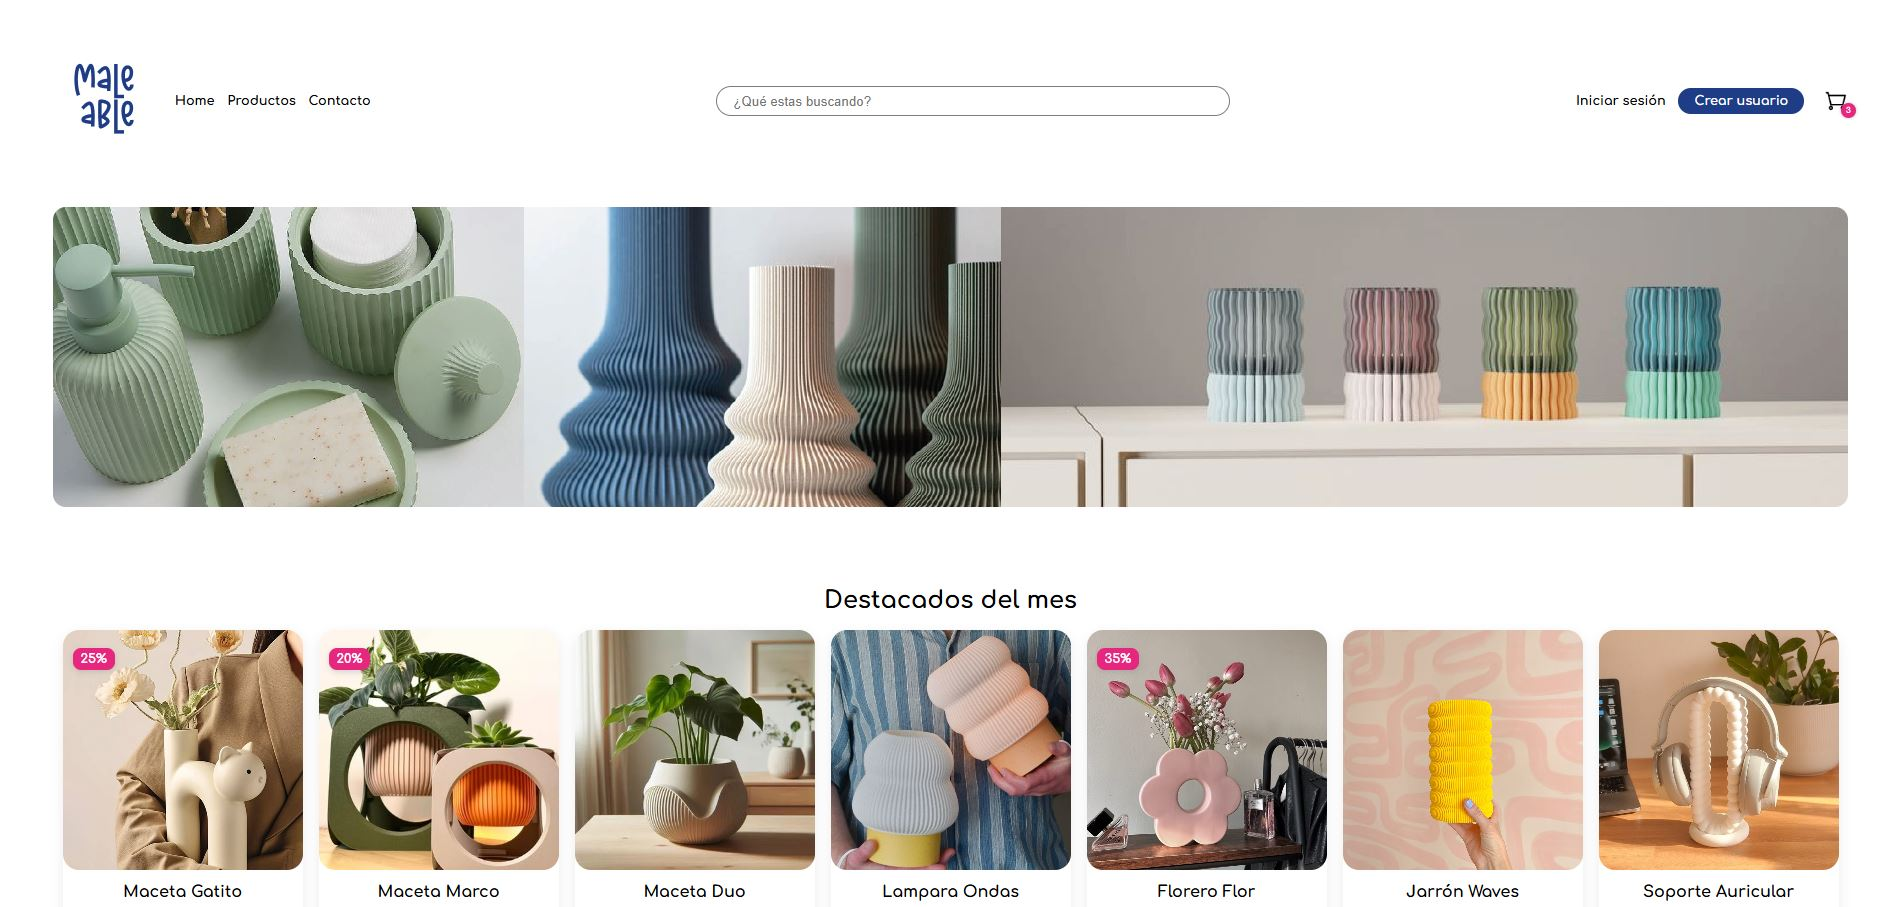
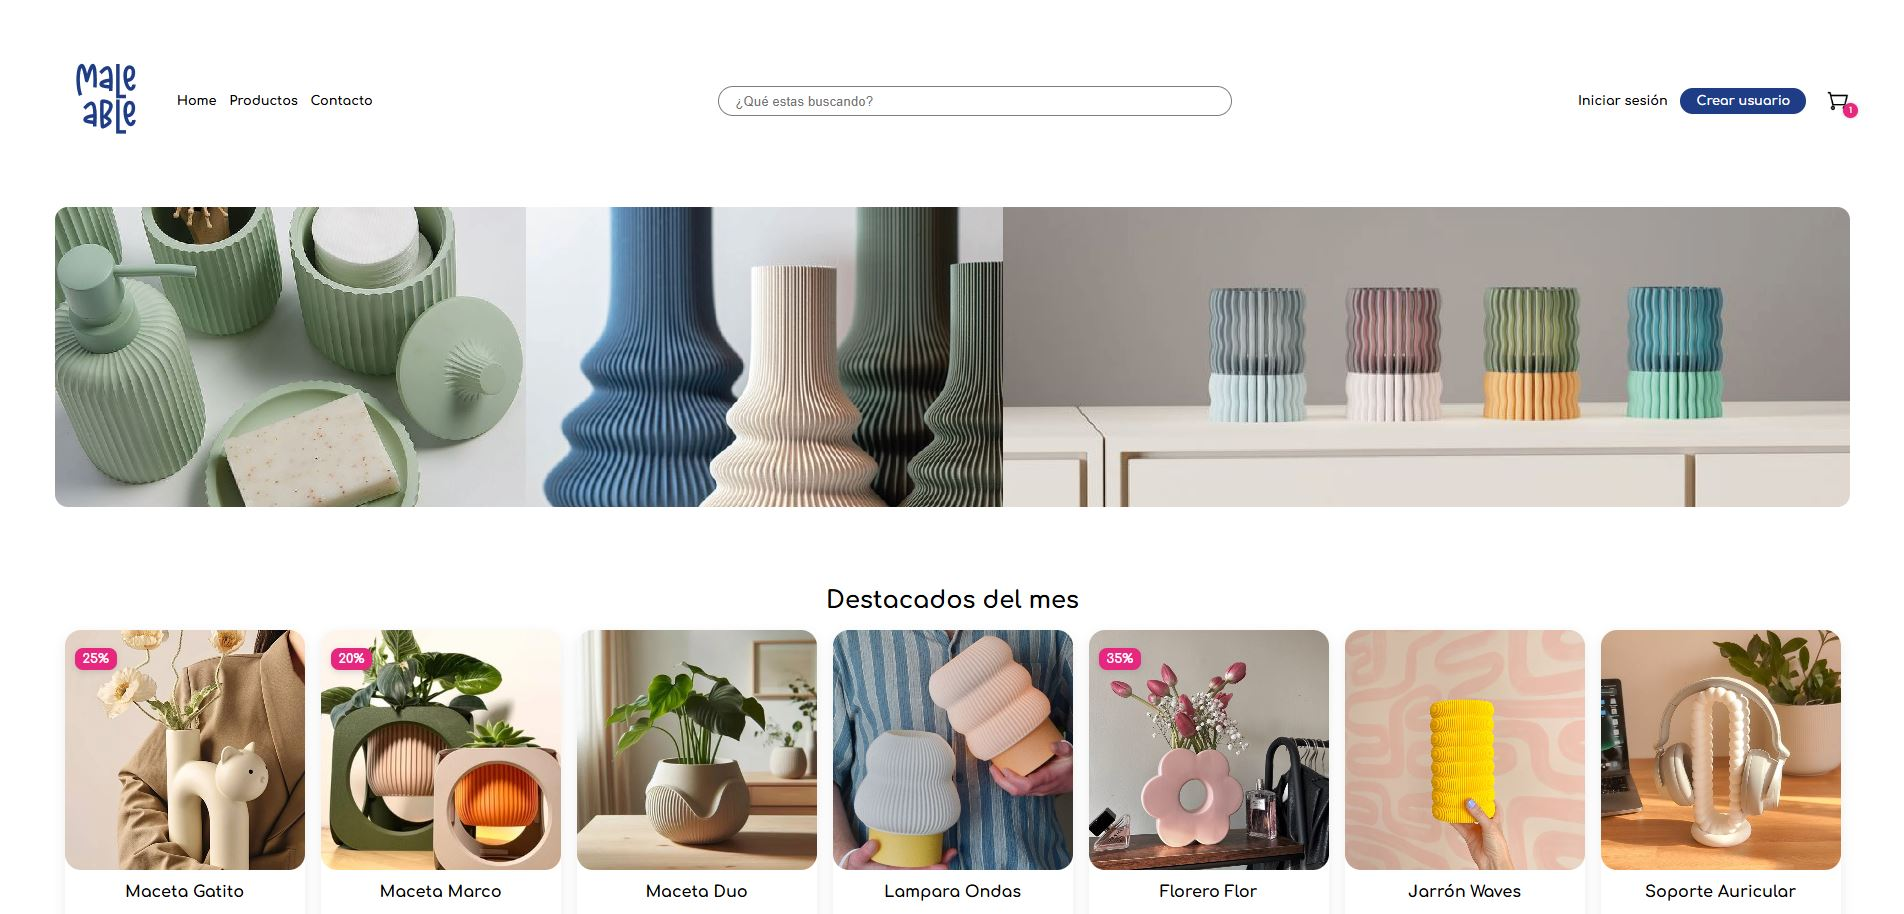
hovers y nuevas imgs

diff --git a/src/components/Navbar.module.css b/src/components/Navbar.module.css
@@ -48,16 +48,22 @@ a:hover {
     background-color: var(--color-fucsia);
 }
 
+.carrContainer {
+    position: relative;
+    cursor: pointer;
+    transition: transform 0.3s ease;
+}
+
+.carrContainer:hover {
+    transform: scale(1.2);
+}
+
 .carrIcon {
     display: flex;
     align-items: center;
     width: 22px;
     height: auto;
     padding: 0.5rem;
-}
-
-.carrContainer {
-    position: relative;
 }
 
 .carrComp {
@@ -76,3 +82,4 @@ a:hover {
   font-weight: 800;
   box-shadow: 0 0 4px rgba(0, 0, 0, 0.3);
 }
+

diff --git a/src/components/CardsProd.module.css b/src/components/CardsProd.module.css
@@ -43,7 +43,7 @@
   font-size: 0.8rem;
   font-weight: bold;
   border-radius: 0.5rem;
-  pointer-events: none;    /* Para que no interfiera con clicks */
+  pointer-events: none;   
   box-shadow: 0 2px 6px rgba(121, 121, 121, 0.3);
 }
 
@@ -79,10 +79,15 @@
   justify-content: center;
   align-items: center;
   cursor: pointer;
+  transition: transform 0.3s ease;
 }
 
 .buttoncarrito img {
   width: 18px;
   height: auto;
   filter: invert(100%);
+}
+
+.buttoncarrito:hover {
+  transform: scale(1.2);
 }

diff --git a/src/components/Navbar.tsx b/src/components/Navbar.tsx
@@ -25,7 +25,7 @@ function Navbar({ cartItemCount }: NavbarProps) {
         </div>
         <div className={styles.carrContainer}>
           <img src="/carritoShop.png" alt="Carrito" className={styles.carrIcon}/>
-          {cartItemCount && cartItemCount > 0 && (
+          {(cartItemCount ?? 0) > 0 && (
             <div className={styles.carrComp}>{cartItemCount}</div>
           )}
         </div>

diff --git a/src/components/CardsCateg.module.css b/src/components/CardsCateg.module.css
@@ -5,6 +5,7 @@
   border-radius: 1rem;
   overflow: hidden;
   cursor: pointer;
+  box-shadow: 0 2px 6px rgba(121, 121, 121, 0.3);
 }
 
 
@@ -49,7 +50,7 @@
 
 .button {
   all: unset;
-  background-color: #E7277F;
+  background-color: var(--color-fucsia);
   padding: 0.4rem 0.8rem;
   border-radius: 0.8rem;
   color: white;

diff --git a/src/components/CardsProd.tsx b/src/components/CardsProd.tsx
@@ -26,4 +26,3 @@ function CardsProd(props: CardsProdProps) {
 
 export default CardsProd;
 
-{/* A mi parecer, la idea es que vos entres a ver la info de la tarjeta(producto) en otra pag, elijas color / tamaño / etc y ahí agregues al carrito, pero queria probar la funcionalidad para esta entrega */}
